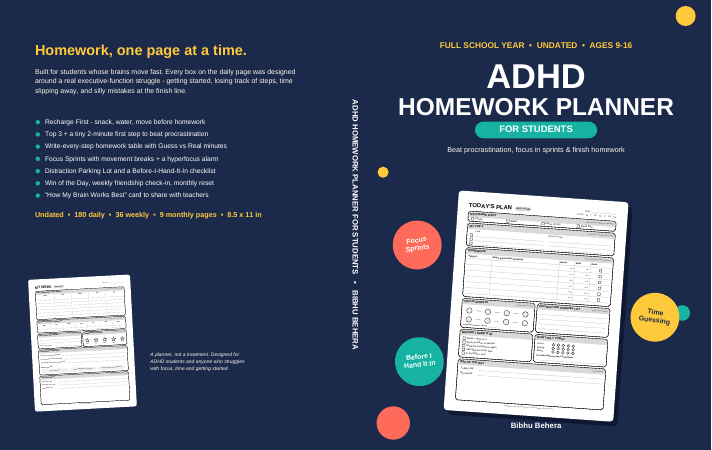
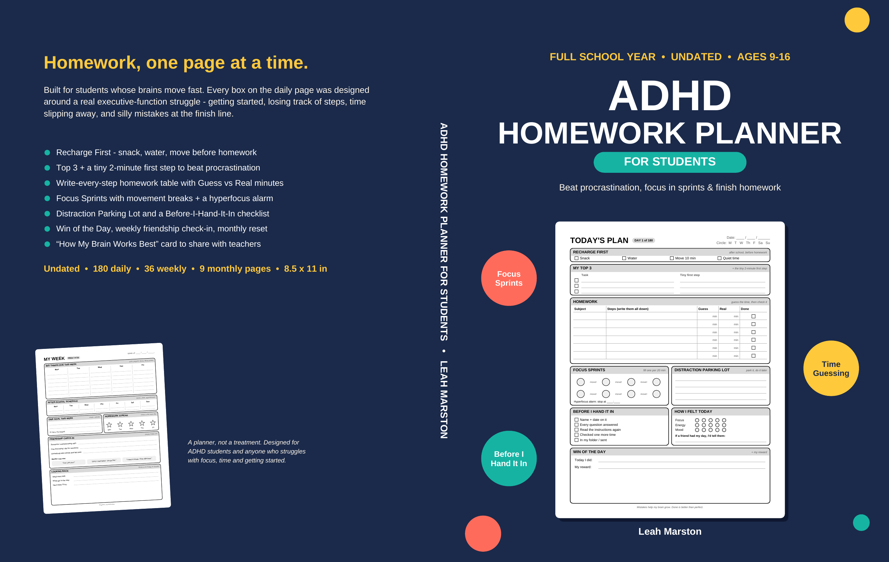
ADHD planner: straight cover mockup (fix skew), pen name Leah Marston
Claude-Session: https://claude.ai/code/session_01LwCuZR5KjN3YAfwBLbfx9E

diff --git a/books/adhd-homework-planner/build/build_book.py b/books/adhd-homework-planner/build/build_book.py
@@ -14,7 +14,7 @@ for n, f in [("Sans", "LiberationSans-Regular"), ("Sans-Bold", "LiberationSans-B
              ("Sans-Italic", "LiberationSans-Italic"), ("Sans-BoldItalic", "LiberationSans-BoldItalic")]:
     pdfmetrics.registerFont(TTFont(n, FD + f + ".ttf"))
 
-AUTHOR = "Bibhu Behera"  # Oct 15: pen name skipped (no sales benefit for planners); real name = zero KDP risk
+AUTHOR = "Leah Marston"  # pen name (Bibhu: do not use real name); clear on web search Oct 15
 TITLE = "ADHD Homework Planner for Students"
 DAYS, WEEKS = 180, 36
 MONTH_WEEKS = [4] * 9  # full school year: 36 weeks over 9 monthly resets
@@ -336,7 +336,7 @@ def build_cover(path, n_pages):
     fx = bleed + W + spine  # front panel left edge (trim)
     c.setFillColor(NAVY); c.rect(0, 0, CW, CH, fill=1, stroke=0)
     # confetti shapes (front only, away from text)
-    for (x, y, r, col) in [(0.94, 0.975, 18, SUN), (0.08, 0.05, 30, CORAL), (0.93, 0.30, 14, TEAL), (0.05, 0.62, 10, SUN)]:
+    for (x, y, r, col) in [(0.94, 0.975, 18, SUN), (0.06, 0.04, 26, CORAL), (0.95, 0.06, 12, TEAL)]:
         c.setFillColor(col); c.circle(fx + x * W, bleed + y * H, r, fill=1, stroke=0)
     # FRONT: title
     c.setFillColor(SUN); c.setFont("Sans-Bold", 15); c.drawCentredString(fx + W / 2, bleed + H - 78, "FULL SCHOOL YEAR  •  UNDATED  •  AGES 9-16")
@@ -347,19 +347,16 @@ def build_cover(path, n_pages):
     c.setFillColor(white); c.setFont("Sans-Bold", 17); c.drawCentredString(fx + W / 2, bleed + H - 230, "FOR STUDENTS")
     c.setFillColor(CREAM); c.setFont("Sans", 13)
     c.drawCentredString(fx + W / 2, bleed + H - 266, "Beat procrastination, focus in sprints & finish homework")
-    # tilted daily-page mockup
-    s = 0.50; pw, ph = W * s, H * s; cx, cy = fx + W / 2, bleed + 250
-    c.saveState(); c.translate(cx, cy); c.rotate(-4)
-    c.setFillColor(HexColor("#0E1830")); c.roundRect(-pw / 2 + 8, -ph / 2 - 8, pw, ph, 6, fill=1, stroke=0)
-    c.setFillColor(white); c.roundRect(-pw / 2, -ph / 2, pw, ph, 6, fill=1, stroke=0)
-    c.translate(-pw / 2, -ph / 2); c.scale(s, s); daily(c, 1)
-    c.restoreState()
-    # callout stickers
-    for (x, y, txt, col, rot) in [(fx + 92, bleed + 360, "Focus\nSprints", CORAL, 8), (fx + W - 92, bleed + 230, "Time\nGuessing", SUN, -8), (fx + 96, bleed + 150, "Before I\nHand It In", TEAL, 6)]:
-        c.saveState(); c.translate(x, y); c.rotate(rot); c.setFillColor(col); c.circle(0, 0, 44, fill=1, stroke=0)
-        c.setFillColor(NAVY if col == SUN else white); c.setFont("Sans-Bold", 12.5)
-        ls = txt.split("\n"); [c.drawCentredString(0, 4 - i * 14 + (len(ls) - 2) * 7, t) for i, t in enumerate(ls)]
-        c.restoreState()
+    # straight daily-page mockup (no rotation = no skew)
+    s = 0.54; pw, ph = W * s, H * s; px, py = fx + (W - pw) / 2, bleed + 54
+    c.setFillColor(HexColor("#0E1830")); c.roundRect(px + 5, py - 5, pw, ph, 6, fill=1, stroke=0)
+    c.setFillColor(white); c.roundRect(px, py, pw, ph, 6, fill=1, stroke=0)
+    c.saveState(); c.translate(px, py); c.scale(s, s); daily(c, 1); c.restoreState()
+    # callout stickers, outside the page mockup
+    for (x, y, txt, col) in [(fx + 74, bleed + 400, "Focus\nSprints", CORAL), (fx + W - 74, bleed + 270, "Time\nGuessing", SUN), (fx + 74, bleed + 140, "Before I\nHand It In", TEAL)]:
+        c.setFillColor(col); c.circle(x, y, 40, fill=1, stroke=0)
+        c.setFillColor(NAVY if col == SUN else white); c.setFont("Sans-Bold", 11.5)
+        ls = txt.split("\n"); [c.drawCentredString(x, y + 2 - i * 13 + (len(ls) - 2) * 6.5, t) for i, t in enumerate(ls)]
     c.setFillColor(white); c.setFont("Sans-Bold", 14); c.drawCentredString(fx + W / 2, bleed + 30, AUTHOR)
     # SPINE
     if n_pages >= 100:

diff --git a/KDP-LEARNINGS.md b/KDP-LEARNINGS.md
@@ -33,5 +33,6 @@ Results (fill in later)
 - Cover maths: spine = pages × 0.002252 in (white paper). 120 pp → 0.270 in, so the full cover is 17.52 × 11.25 in. Keep the back-panel bottom-right 2×1.2 in clear for the barcode.
 - Planner page plan: 90 daily + 18 weekly + 4 monthly + 8 front/back = 120. Number the pages "DAY n of 90" to build progress motivation without dating them.
 - Final QA script: render every page, assert ink ≥0.375 in from the sides and ≥0.25 in from top/bottom, assert no blank pages, `pdffonts` shows no unembedded fonts. Passed on all 120 pages (min margins 0.54/0.54/0.55/0.35 in).
-- Pen names don't sell planners; cover/title/keywords do. Default to Bibhu Behera unless there's a brand reason to separate lines.
+- Pen names don't change planner sales (cover/title/keywords do), but Bibhu keeps his real name off non-Dino lines → ADHD planner uses pen name Leah Marston.
 - Expanded to a full school year (180 daily / 36 weekly / 9 monthly = 234 pp). B&W print = $1.00 + $0.012 × pages → $3.81, so price $14.99 to keep the royalty around $5. Stay undated: a "2027" dated planner sells for about 3 months and then dies, while undated sells every year.
+- Cover mockup: never rotate the page preview. The tilt plus offset shadow looked skewed (Bibhu: "distorted"). Use a straight page, a small drop shadow, and stickers kept outside the page.

diff --git a/books/adhd-homework-planner/README.md b/books/adhd-homework-planner/README.md
@@ -1,13 +1,13 @@
 # ADHD Homework Planner for Students — status (Oct 15, 2026)
 
 **Status (Oct 15):** full-school-year interior (`interior.pdf`, 234 pp: 180 daily, 36 weekly, 9 monthly) + wraparound cover (`cover.pdf`, 17.78×11.25 in, spine 0.527 in) BUILT. Listing drafted in `LISTING.md`.
-**Waiting on Bibhu:** (1) review interior + `cover_preview.png`; (2) author = Bibhu Behera (decided Oct 15); (3) Publish in the Oct 18–24 slot.
+**Waiting on Bibhu:** (1) review interior + `cover_preview.png`; (2) author = pen name Leah Marston (decided Oct 15); (3) Publish in the Oct 18–24 slot.
 Rebuild: `cd build && python3 build_book.py` (change `AUTHOR` there if the pen name changes).
 
 ## Spec
 - 8.5×11 paperback, undated, black & white interior with grey tints (no colour interior: royalty would halve).
 - 234 pages (full school year), $14.99 US (~$5.18 royalty). Was 120 pp / 90 days; expanded Oct 15 on Bibhu's call. Cover is full colour.
-- Author: Bibhu Behera (Oct 15: pen name skipped, no sales benefit).
+- Author: pen name **Leah Marston**. Bibhu does not want his real name on this line.
 - Built entirely in code (reportlab): `build/daily_page.py` → `sample_v2_APPROVED.pdf`.
 - Listing language: "designed for ADHD students", "built around executive function". **Never** claim it treats, fixes or improves ADHD.
 

diff --git a/books/adhd-homework-planner/LISTING.md b/books/adhd-homework-planner/LISTING.md
@@ -2,7 +2,7 @@
 
 **Title:** ADHD Homework Planner for Students
 **Subtitle:** Undated Full School Year Daily Planner (180 Days) for Kids & Teens to Beat Procrastination, Focus in Sprints and Finish Homework | Weekly & Monthly Pages, 8.5 x 11
-**Author:** Bibhu Behera (pen name skipped: buyers pick planners by cover/title/reviews, not author; real name = zero KDP contributor risk)
+**Author:** Leah Marston (pen name; Bibhu: do not use real name on this line. Web search Oct 15 found no existing author with this name.)
 **Price:** $14.99 US (print $3.81 → royalty ~$5.18; at $12.99 royalty ~$3.98) · B&W, white paper, 8.5×11, no bleed, matte · 234 pages · free KDP ISBN (only with Bibhu's yes)
 
 ## Description
